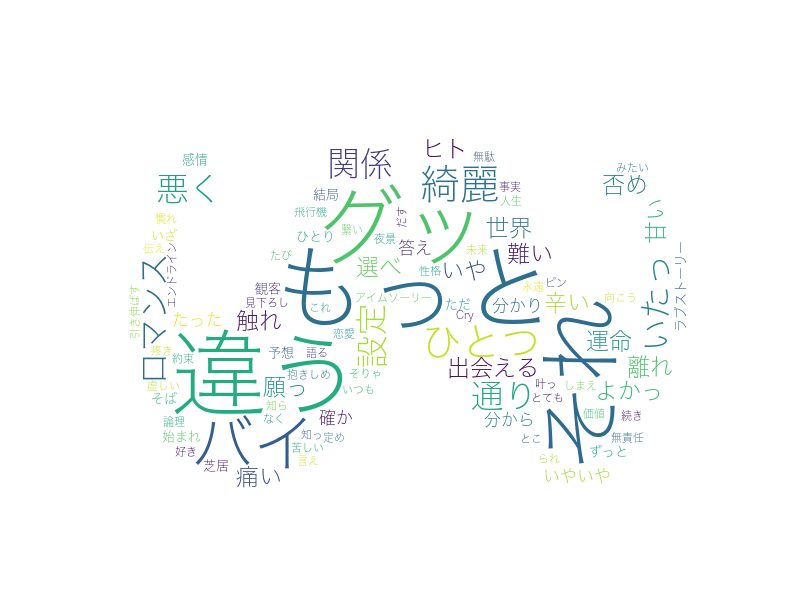
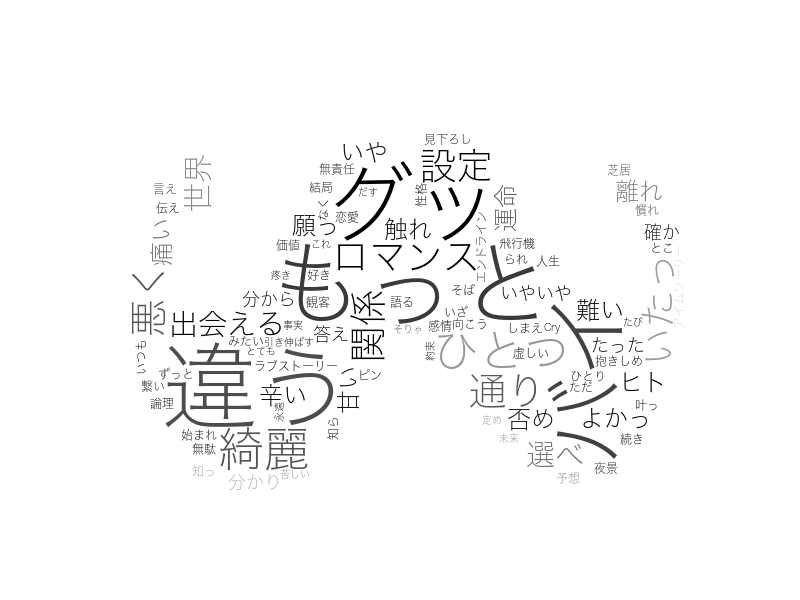
fix

Changed region(s): [[0.1562, 0.21, 0.875, 0.81]]

diff --git a/lylics/lylics.py b/lylics/lylics.py
@@ -1,11 +1,15 @@
-import requests
-from bs4 import BeautifulSoup
-import pandas as pd
-import sys
-from janome.tokenizer import Tokenizer
-from wordcloud import WordCloud
+
 import numpy as np
+import pandas as pd
+
+from bs4 import BeautifulSoup
+from janome.tokenizer import Tokenizer
+from wordcloud import WordCloud, ImageColorGenerator
 from PIL import Image
+
+import requests
+import sys
+import os
 
 
 class LiricsToWordCloud:
@@ -15,7 +19,7 @@ class LiricsToWordCloud:
         self.artist = ''
         self.lirics = ''
         self.words = ''
-        self.output_path = './output/'
+        self.output_path = os.path.dirname(__file__) + '/output/'
     
     def get_lirics(self, *, url=''):
         error = None
@@ -64,29 +68,30 @@ class LiricsToWordCloud:
         
         return error
     
-    def create_word_cloud(self, img_color_path=''):
+    def create_word_cloud(self, img_color_path):
         font = '/System/Library/Fonts/ヒラギノ角ゴシック W1.ttc'
 
-        stop_words = ['そう', 'ない', 'いる', 'する', 'まま', 'よう', 'てる', 'なる', 'こと', 'もう', 'いい', 'ある', 'ゆく', 'れる']
+        stop_words = ['それ', 'そう', 'ない', 'の', 'いる', 'する', 'まま', 'よう', 'てる', 'なる', 'こと', 'もう', 'いい', 'ある', 'ゆく', 'れる']
 
+        img_color = np.array(Image.open(img_color_path))
         wc = WordCloud( background_color='white', 
                         font_path=font,
                         width=800,
                         height=600, 
                         stopwords=set(stop_words),
-                        mask=np.array(Image.open(img_color_path)),
+                        mask=img_color,
                         collocations=False).generate(self.words)
 
+        wc.recolor(color_func=ImageColorGenerator(img_color))
         wc.to_file(self.output_path + '{0}.png'.format(self.song))
 
 
 if __name__ == "__main__":
     args = sys.argv
 
-    if len(args) >= 3:
+    if len(args) >= 2:
         ltw = LiricsToWordCloud()
         error = ltw.get_lirics(url=args[1])
-
         if error is None:
             error = ltw.to_words()
             
